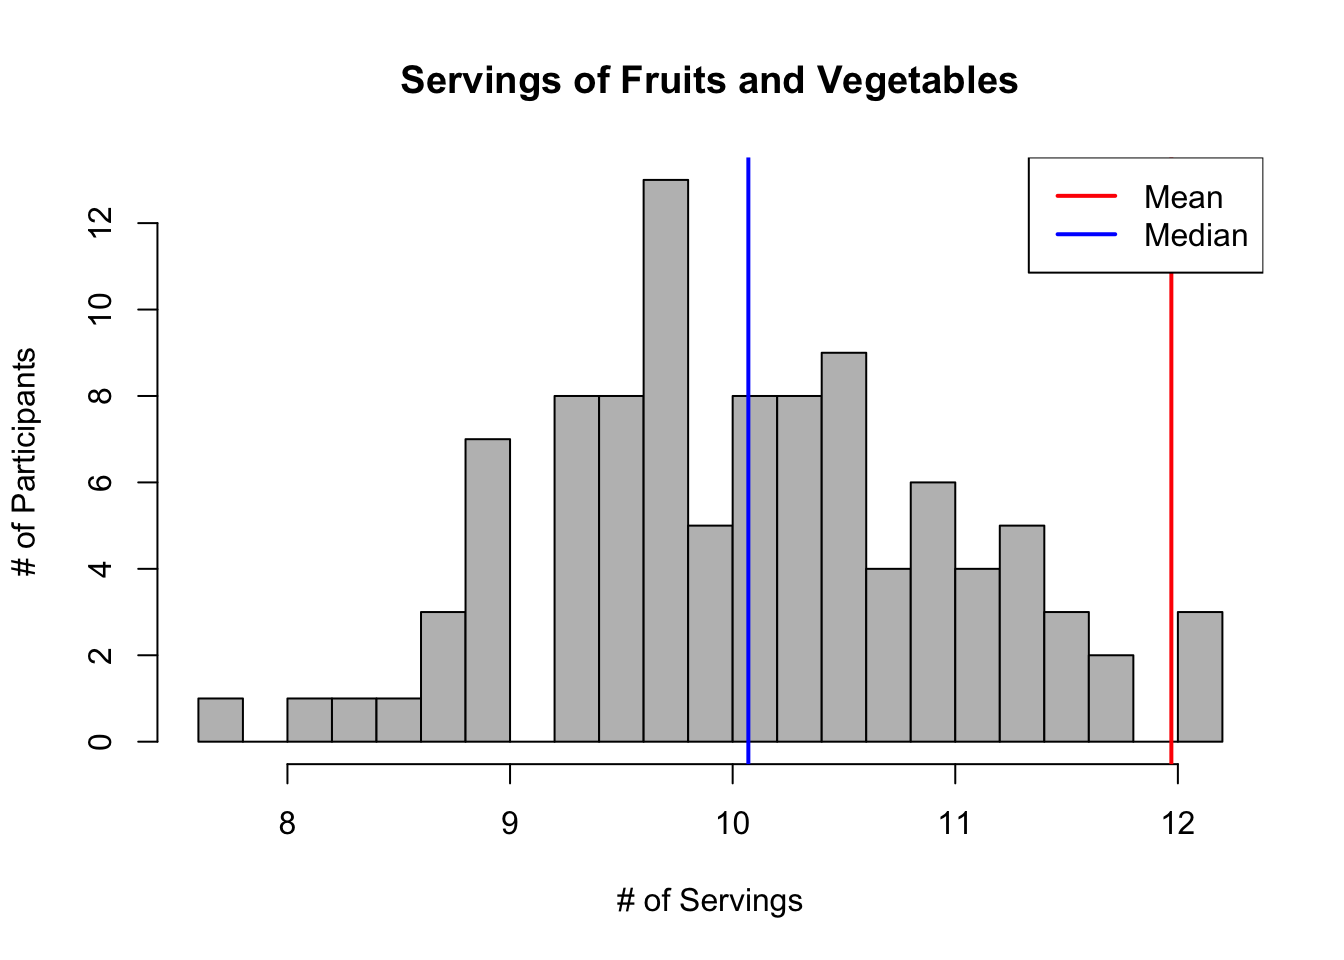
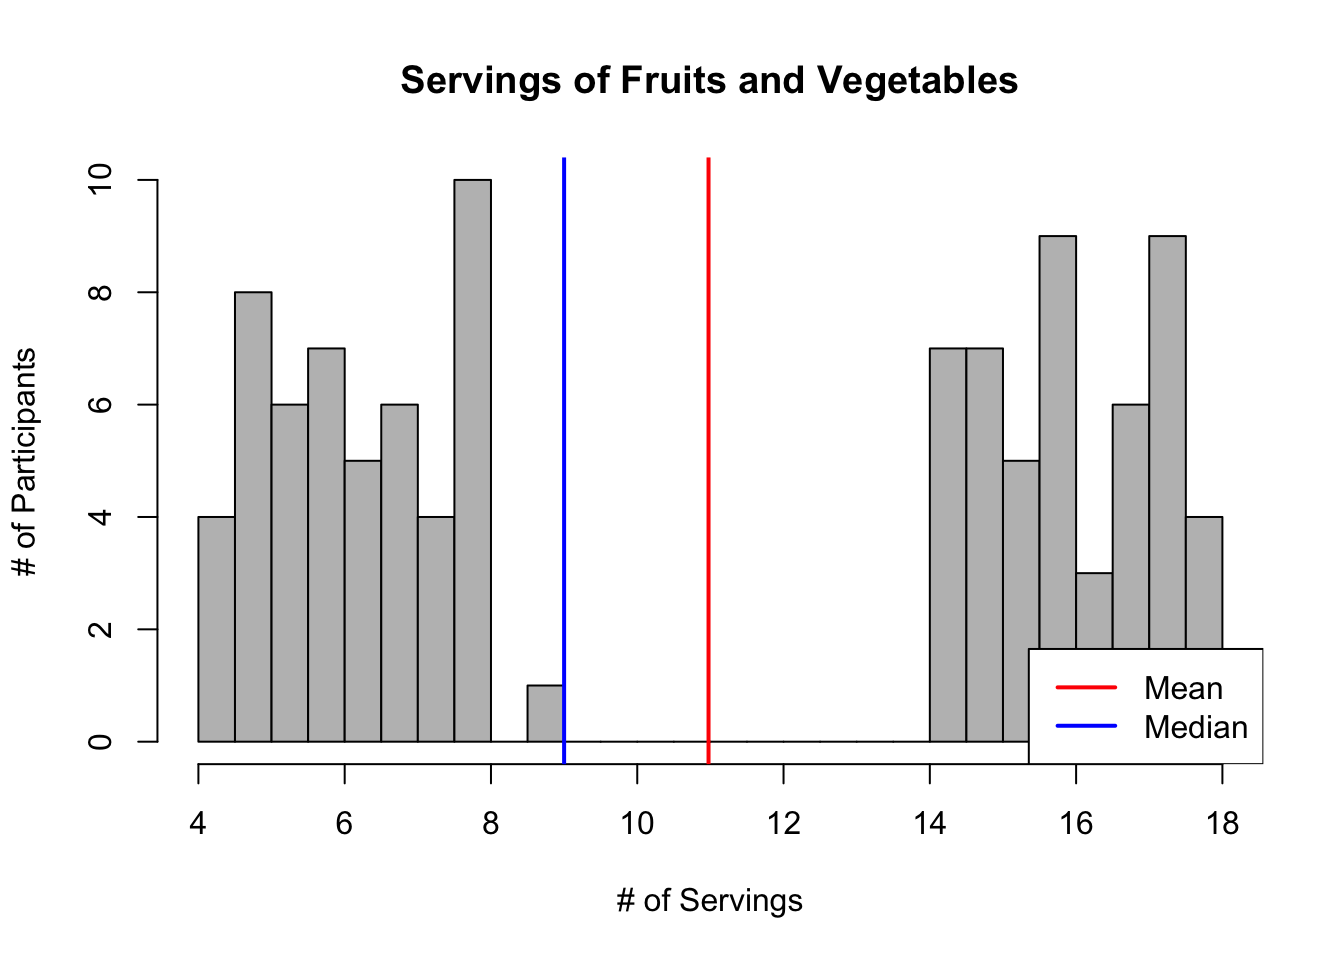
Updating Lecture 3

diff --git a/slides/lec-3-prob-basics-anno_MH.html b/slides/lec-3-prob-basics-anno_MH.html
@@ -23,41 +23,6 @@ ul.task-list li input[type="checkbox"] {
   margin: 0 0.8em 0.2em -1em; /* quarto-specific, see https://github.com/quarto-dev/quarto-cli/issues/4556 */ 
   vertical-align: middle;
 }
-/* CSS for syntax highlighting */
-html { -webkit-text-size-adjust: 100%; }
-pre > code.sourceCode { white-space: pre; position: relative; }
-pre > code.sourceCode > span { display: inline-block; line-height: 1.25; }
-pre > code.sourceCode > span:empty { height: 1.2em; }
-.sourceCode { overflow: visible; }
-code.sourceCode > span { color: inherit; text-decoration: inherit; }
-div.sourceCode { margin: 1em 0; }
-pre.sourceCode { margin: 0; }
-@media screen {
-div.sourceCode { overflow: auto; }
-}
-@media print {
-pre > code.sourceCode { white-space: pre-wrap; }
-pre > code.sourceCode > span { text-indent: -5em; padding-left: 5em; }
-}
-pre.numberSource code
-  { counter-reset: source-line 0; }
-pre.numberSource code > span
-  { position: relative; left: -4em; counter-increment: source-line; }
-pre.numberSource code > span > a:first-child::before
-  { content: counter(source-line);
-    position: relative; left: -1em; text-align: right; vertical-align: baseline;
-    border: none; display: inline-block;
-    -webkit-touch-callout: none; -webkit-user-select: none;
-    -khtml-user-select: none; -moz-user-select: none;
-    -ms-user-select: none; user-select: none;
-    padding: 0 4px; width: 4em;
-  }
-pre.numberSource { margin-left: 3em;  padding-left: 4px; }
-div.sourceCode
-  {   }
-@media screen {
-pre > code.sourceCode > span > a:first-child::before { text-decoration: underline; }
-}
 </style>
 
 
@@ -148,6 +113,9 @@ window.Quarto = {
 <h2 class="anchored" data-anchor-id="announcements">Announcements</h2>
 <ul>
 <li>HW 2 Due tonight, Jun 23 at 11:59pm</li>
+<li>Please hand in your getting-to-know you survey if you haven’t already!</li>
+<li><strong>Office Hours</strong>: Monday 11 AM - 1 PM, Wednesdays 1 - 3 PM in MCG 3126 (across from the restrooms on the third floor)</li>
+<li><strong>Today</strong> office hours are from 2 - 4 PM due to a scheduling conflict on my end</li>
 </ul>
 </section>
 <section id="last-class" class="level1">
@@ -157,18 +125,6 @@ window.Quarto = {
 <li><p>Example of right skew (tail is on the right)</p></li>
 </ul>
 <div class="cell">
-<div class="code-copy-outer-scaffold"><div class="sourceCode cell-code" id="cb1"><pre class="sourceCode r code-with-copy"><code class="sourceCode r"><span id="cb1-1"><a href="#cb1-1" aria-hidden="true" tabindex="-1"></a><span class="fu">set.seed</span>(<span class="dv">123</span>)</span>
-<span id="cb1-2"><a href="#cb1-2" aria-hidden="true" tabindex="-1"></a></span>
-<span id="cb1-3"><a href="#cb1-3" aria-hidden="true" tabindex="-1"></a><span class="co"># Simulate data from a normal distribution</span></span>
-<span id="cb1-4"><a href="#cb1-4" aria-hidden="true" tabindex="-1"></a>normal_data <span class="ot">&lt;-</span> <span class="fu">rnorm</span>(<span class="dv">400</span>, <span class="at">mean =</span> <span class="dv">0</span>, <span class="at">sd =</span> <span class="dv">1</span>)</span>
-<span id="cb1-5"><a href="#cb1-5" aria-hidden="true" tabindex="-1"></a></span>
-<span id="cb1-6"><a href="#cb1-6" aria-hidden="true" tabindex="-1"></a><span class="co"># Transform the data to make it right-skewed</span></span>
-<span id="cb1-7"><a href="#cb1-7" aria-hidden="true" tabindex="-1"></a>right_skewed_data <span class="ot">&lt;-</span> <span class="fu">exp</span>(normal_data)</span>
-<span id="cb1-8"><a href="#cb1-8" aria-hidden="true" tabindex="-1"></a></span>
-<span id="cb1-9"><a href="#cb1-9" aria-hidden="true" tabindex="-1"></a><span class="co"># Create a histogram</span></span>
-<span id="cb1-10"><a href="#cb1-10" aria-hidden="true" tabindex="-1"></a><span class="fu">hist</span>(right_skewed_data, <span class="at">breaks =</span> <span class="dv">30</span>,</span>
-<span id="cb1-11"><a href="#cb1-11" aria-hidden="true" tabindex="-1"></a>     <span class="at">col =</span> <span class="st">"darkgoldenrod3"</span>, <span class="at">main =</span> <span class="st">" "</span>, </span>
-<span id="cb1-12"><a href="#cb1-12" aria-hidden="true" tabindex="-1"></a>     <span class="at">xlab =</span> <span class="st">"Value"</span>)</span></code></pre></div><button title="Copy to Clipboard" class="code-copy-button"><i class="bi"></i></button></div>
 <div class="cell-output-display">
 <div>
 <figure class="figure">
@@ -184,26 +140,6 @@ window.Quarto = {
 <li>Data has Mean of 12, Median of 10</li>
 </ul>
 <div class="cell">
-<div class="code-copy-outer-scaffold"><div class="sourceCode cell-code" id="cb2"><pre class="sourceCode r code-with-copy"><code class="sourceCode r"><span id="cb2-1"><a href="#cb2-1" aria-hidden="true" tabindex="-1"></a><span class="fu">set.seed</span>(<span class="dv">123</span>)</span>
-<span id="cb2-2"><a href="#cb2-2" aria-hidden="true" tabindex="-1"></a></span>
-<span id="cb2-3"><a href="#cb2-3" aria-hidden="true" tabindex="-1"></a><span class="co"># Many typical values</span></span>
-<span id="cb2-4"><a href="#cb2-4" aria-hidden="true" tabindex="-1"></a>x <span class="ot">&lt;-</span> <span class="fu">rnorm</span>(<span class="dv">100</span>, <span class="at">mean =</span> <span class="dv">10</span>, <span class="at">sd =</span> <span class="dv">1</span>)</span>
-<span id="cb2-5"><a href="#cb2-5" aria-hidden="true" tabindex="-1"></a></span>
-<span id="cb2-6"><a href="#cb2-6" aria-hidden="true" tabindex="-1"></a><span class="co"># One extreme outlier</span></span>
-<span id="cb2-7"><a href="#cb2-7" aria-hidden="true" tabindex="-1"></a>x_with_outlier <span class="ot">&lt;-</span> <span class="fu">c</span>(x, <span class="dv">200</span>)</span>
-<span id="cb2-8"><a href="#cb2-8" aria-hidden="true" tabindex="-1"></a></span>
-<span id="cb2-9"><a href="#cb2-9" aria-hidden="true" tabindex="-1"></a><span class="fu">hist</span>(x_with_outlier, <span class="at">breaks =</span> <span class="dv">30</span>, <span class="at">col =</span> <span class="st">"gray"</span>,</span>
-<span id="cb2-10"><a href="#cb2-10" aria-hidden="true" tabindex="-1"></a>     <span class="at">main =</span> <span class="st">"Servings of Fruits and Vegetables"</span>,</span>
-<span id="cb2-11"><a href="#cb2-11" aria-hidden="true" tabindex="-1"></a>     <span class="at">ylab=</span> <span class="st">"# of Participants"</span>,</span>
-<span id="cb2-12"><a href="#cb2-12" aria-hidden="true" tabindex="-1"></a>     <span class="at">xlab =</span> <span class="st">"# of Servings"</span>)</span>
-<span id="cb2-13"><a href="#cb2-13" aria-hidden="true" tabindex="-1"></a></span>
-<span id="cb2-14"><a href="#cb2-14" aria-hidden="true" tabindex="-1"></a><span class="fu">abline</span>(<span class="at">v =</span> <span class="fu">mean</span>(x_with_outlier), <span class="at">col =</span> <span class="st">"red"</span>, <span class="at">lwd =</span> <span class="dv">2</span>)</span>
-<span id="cb2-15"><a href="#cb2-15" aria-hidden="true" tabindex="-1"></a><span class="fu">abline</span>(<span class="at">v =</span> <span class="fu">median</span>(x_with_outlier), <span class="at">col =</span> <span class="st">"blue"</span>, <span class="at">lwd =</span> <span class="dv">2</span>)</span>
-<span id="cb2-16"><a href="#cb2-16" aria-hidden="true" tabindex="-1"></a></span>
-<span id="cb2-17"><a href="#cb2-17" aria-hidden="true" tabindex="-1"></a><span class="fu">legend</span>(<span class="st">"topright"</span>,</span>
-<span id="cb2-18"><a href="#cb2-18" aria-hidden="true" tabindex="-1"></a>       <span class="at">legend =</span> <span class="fu">c</span>(<span class="st">"Mean"</span>, <span class="st">"Median"</span>),</span>
-<span id="cb2-19"><a href="#cb2-19" aria-hidden="true" tabindex="-1"></a>       <span class="at">col =</span> <span class="fu">c</span>(<span class="st">"red"</span>, <span class="st">"blue"</span>),</span>
-<span id="cb2-20"><a href="#cb2-20" aria-hidden="true" tabindex="-1"></a>       <span class="at">lwd =</span> <span class="dv">2</span>)</span></code></pre></div><button title="Copy to Clipboard" class="code-copy-button"><i class="bi"></i></button></div>
 <div class="cell-output-display">
 <div>
 <figure class="figure">
@@ -219,23 +155,10 @@ window.Quarto = {
 <li>Mean is higher than the median but data is not skewed</li>
 </ul>
 <div class="cell">
-<div class="code-copy-outer-scaffold"><div class="sourceCode cell-code" id="cb3"><pre class="sourceCode r code-with-copy"><code class="sourceCode r"><span id="cb3-1"><a href="#cb3-1" aria-hidden="true" tabindex="-1"></a><span class="co"># Many typical values</span></span>
-<span id="cb3-2"><a href="#cb3-2" aria-hidden="true" tabindex="-1"></a><span class="fu">hist</span>(x, <span class="at">breaks =</span> <span class="dv">30</span>, <span class="at">col =</span> <span class="st">"gray"</span>,</span>
-<span id="cb3-3"><a href="#cb3-3" aria-hidden="true" tabindex="-1"></a>     <span class="at">main =</span> <span class="st">"Servings of Fruits and Vegetables"</span>,</span>
-<span id="cb3-4"><a href="#cb3-4" aria-hidden="true" tabindex="-1"></a>     <span class="at">ylab=</span> <span class="st">"# of Participants"</span>,</span>
-<span id="cb3-5"><a href="#cb3-5" aria-hidden="true" tabindex="-1"></a>     <span class="at">xlab =</span> <span class="st">"# of Servings"</span>)</span>
-<span id="cb3-6"><a href="#cb3-6" aria-hidden="true" tabindex="-1"></a></span>
-<span id="cb3-7"><a href="#cb3-7" aria-hidden="true" tabindex="-1"></a><span class="fu">abline</span>(<span class="at">v =</span> <span class="fu">mean</span>(x_with_outlier), <span class="at">col =</span> <span class="st">"red"</span>, <span class="at">lwd =</span> <span class="dv">2</span>)</span>
-<span id="cb3-8"><a href="#cb3-8" aria-hidden="true" tabindex="-1"></a><span class="fu">abline</span>(<span class="at">v =</span> <span class="fu">median</span>(x_with_outlier), <span class="at">col =</span> <span class="st">"blue"</span>, <span class="at">lwd =</span> <span class="dv">2</span>)</span>
-<span id="cb3-9"><a href="#cb3-9" aria-hidden="true" tabindex="-1"></a></span>
-<span id="cb3-10"><a href="#cb3-10" aria-hidden="true" tabindex="-1"></a><span class="fu">legend</span>(<span class="st">"topright"</span>,</span>
-<span id="cb3-11"><a href="#cb3-11" aria-hidden="true" tabindex="-1"></a>       <span class="at">legend =</span> <span class="fu">c</span>(<span class="st">"Mean"</span>, <span class="st">"Median"</span>),</span>
-<span id="cb3-12"><a href="#cb3-12" aria-hidden="true" tabindex="-1"></a>       <span class="at">col =</span> <span class="fu">c</span>(<span class="st">"red"</span>, <span class="st">"blue"</span>),</span>
-<span id="cb3-13"><a href="#cb3-13" aria-hidden="true" tabindex="-1"></a>       <span class="at">lwd =</span> <span class="dv">2</span>)</span></code></pre></div><button title="Copy to Clipboard" class="code-copy-button"><i class="bi"></i></button></div>
 <div class="cell-output-display">
 <div>
 <figure class="figure">
-<p><img src="lec-3-prob-basics-anno_MH_files/figure-html/unnamed-chunk-3-1.png" class="img-fluid figure-img" alt="Histogram plot with values spread evenly around 8 to 12, with a vertical blue line at 10 and a vertical red line at 12" width="672"></p>
+<p><img src="lec-3-prob-basics-anno_MH_files/figure-html/unnamed-chunk-3-1.png" class="img-fluid figure-img" alt="Histogram plot with two clusters of bars, one from 4 to 9, and the other from 14 to 18. There is a red vertical line labeled Mean at 11, and a blue vertical line labeled Median at 9." width="672"></p>
 </figure>
 </div>
 </div>

diff --git a/slides/lec-3-prob-basics_MH.html b/slides/lec-3-prob-basics_MH.html
@@ -148,6 +148,9 @@
 <h2>Announcements</h2>
 <ul>
 <li>HW 2 Due tonight, Jun 23 at 11:59pm</li>
+<li>Please hand in your getting-to-know you survey if you haven’t already!</li>
+<li><strong>Office Hours</strong>: Monday 11 AM - 1 PM, Wednesdays 1 - 3 PM in MCG 3126 (across from the restrooms on the third floor)</li>
+<li><strong>Today</strong> office hours are from 2 - 4 PM due to a scheduling conflict on my end</li>
 </ul>
 </section>
 <section id="last-class" class="title-slide slide level1 center">
